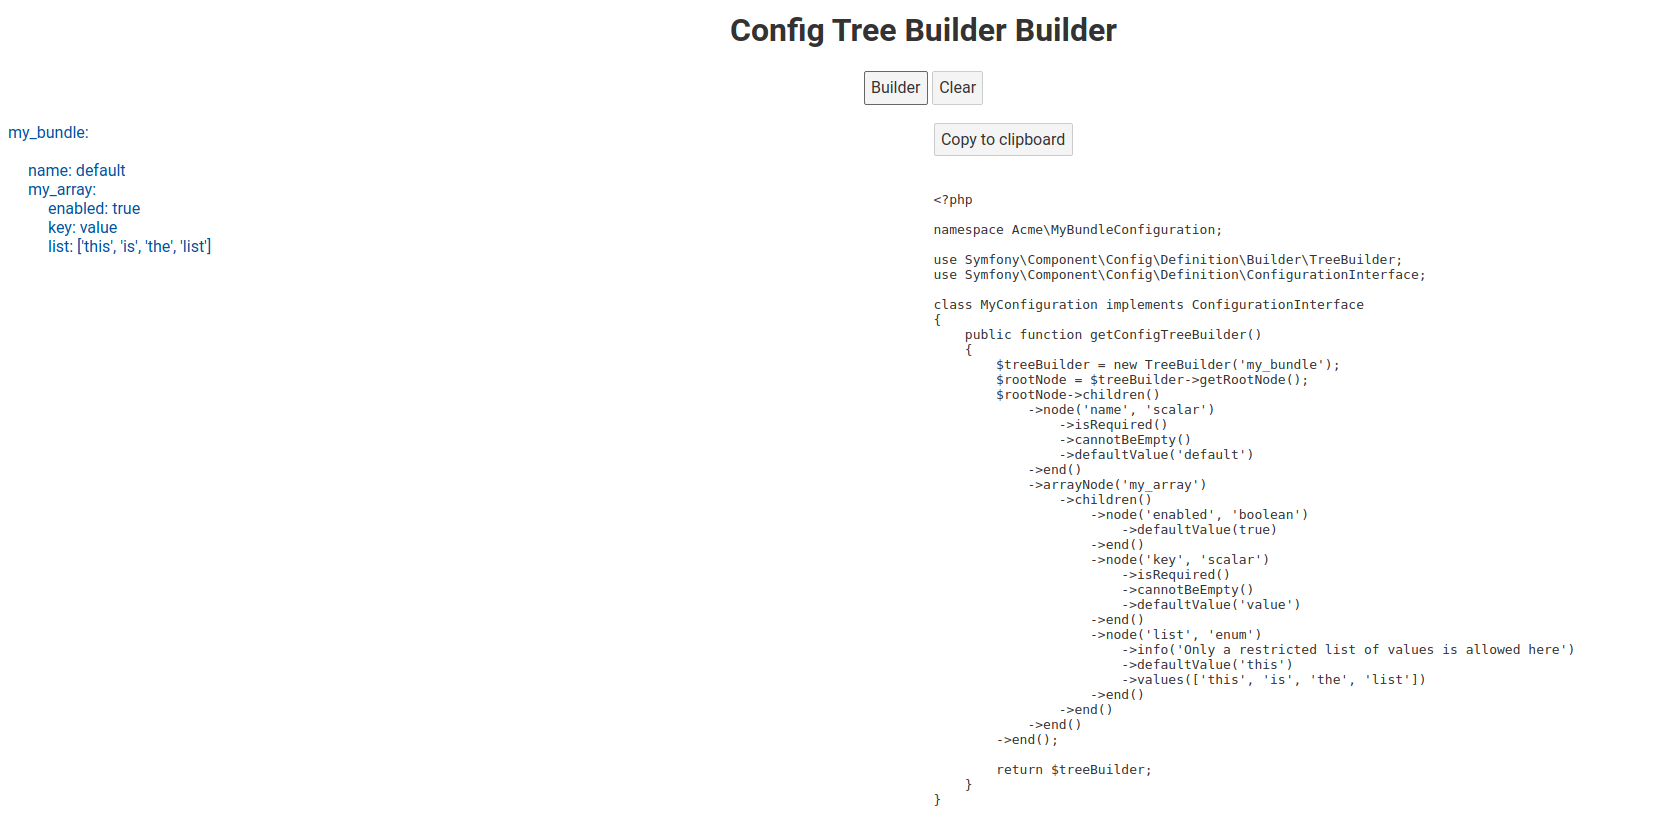
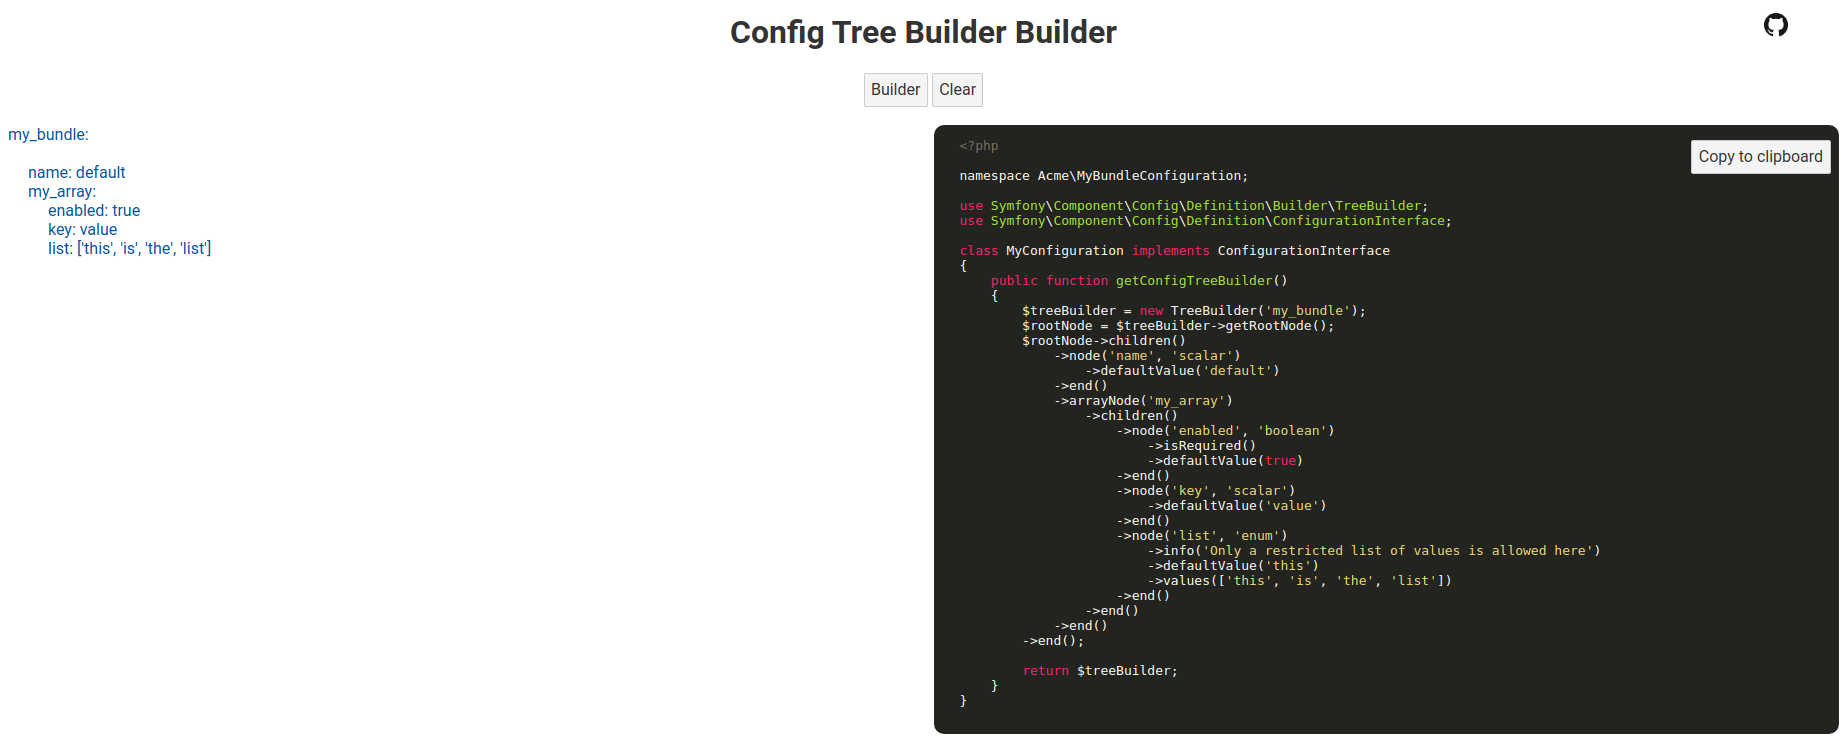
Hihghlight code

diff --git a/src/App.svelte b/src/App.svelte
@@ -3,6 +3,8 @@
     import { getConfigTreeBuilder } from './Services/ConfigWriter.js';
     import Configuration from './Configuration.svelte';
     import ConfigManager from './Services/ConfigManager.js';
+    import Highlight from 'svelte-highlight';
+    import { php } from 'svelte-highlight/languages';
 
     ConfigManager.load();
 
@@ -18,6 +20,8 @@
     function buildTree() {
         if (configuration.length) {
             tree = getConfigTreeBuilder(configuration);
+        } else {
+            tree = '';
         }
     }
 
@@ -51,16 +55,13 @@
     <div class="configuration" class:yaml>
         <Configuration/>
     </div>
-    <div>
-    {#if tree}
-        <button on:click={copyToClipBoard}>Copy to clipboard</button>
+    <div id="code-panel">
+        <button on:click={copyToClipBoard} id="btn-copy">Copy to clipboard</button>
         {#if copied}
             Copied to clipboard !
         {/if}
-        <pre>
-            <code>
-        {`
-<?php
+        <Highlight language={php} code={
+`<?php
 
 namespace Acme\\MyBundleConfiguration;
 
@@ -73,12 +74,9 @@ class MyConfiguration implements ConfigurationInterface
     {
 ${tree}
     }
-}
-`}
-            </code>
-        </pre>
-    {/if}
-    </div>
+}`}
+/>
+        </div>
 </div>
 Icons made by <a href="https://www.flaticon.com/authors/kiranshastry" title="Kiranshastry">Kiranshastry</a> from <a href="https://www.flaticon.com/" title="Flaticon"> www.flaticon.com</a>
 

diff --git a/public/monokai.css b/public/monokai.css
@@ -1,0 +1,83 @@
+/*
+
+Monokai Sublime style. Derived from Monokai by noformnocontent http://nn.mit-license.org/
+
+*/
+
+.hljs {
+    display: block;
+    overflow-x: auto;
+    padding: 1em 2em 2em;
+    background: #23241f;
+  }
+
+  .hljs,
+  .hljs-tag,
+  .hljs-subst {
+    color: #f8f8f2;
+  }
+
+  .hljs-strong,
+  .hljs-emphasis {
+    color: #a8a8a2;
+  }
+
+  .hljs-bullet,
+  .hljs-quote,
+  .hljs-number,
+  .hljs-regexp,
+  .hljs-literal,
+  .hljs-link {
+    color: #ae81ff;
+  }
+
+  .hljs-code,
+  .hljs-title,
+  .hljs-section,
+  .hljs-selector-class {
+    color: #a6e22e;
+  }
+
+  .hljs-strong {
+    font-weight: bold;
+  }
+
+  .hljs-emphasis {
+    font-style: italic;
+  }
+
+  .hljs-keyword,
+  .hljs-selector-tag,
+  .hljs-name,
+  .hljs-attr {
+    color: #f92672;
+  }
+
+  .hljs-symbol,
+  .hljs-attribute {
+    color: #66d9ef;
+  }
+
+  .hljs-params,
+  .hljs-class .hljs-title {
+    color: #f8f8f2;
+  }
+
+  .hljs-string,
+  .hljs-type,
+  .hljs-built_in,
+  .hljs-builtin-name,
+  .hljs-selector-id,
+  .hljs-selector-attr,
+  .hljs-selector-pseudo,
+  .hljs-addition,
+  .hljs-variable,
+  .hljs-template-variable {
+    color: #e6db74;
+  }
+
+  .hljs-comment,
+  .hljs-deletion,
+  .hljs-meta {
+    color: #75715e;
+  }

diff --git a/public/global.css b/public/global.css
@@ -119,3 +119,23 @@ button:focus {
 	top: 3%;
 	left: 95%;
 }
+
+.modal,
+.modal-background {
+	z-index: 10;
+}
+
+#code-panel {
+	position: relative;
+}
+
+#btn-copy {
+	position: absolute;
+    right: 2%;
+    top: 4%;
+}
+
+.svelte-highlight {
+	margin: 0;
+	border-radius: 10px;
+}

diff --git a/public/index.html b/public/index.html
@@ -9,6 +9,7 @@
 	<link rel='icon' type='image/png' href='/favicon.png'>
 	<link rel='stylesheet' href='/global.css'>
 	<link rel='stylesheet' href='/build/bundle.css'>
+	<link rel='stylesheet' href='/monokai.css'>
 
 	<script defer src='/build/bundle.js'></script>
 </head>
